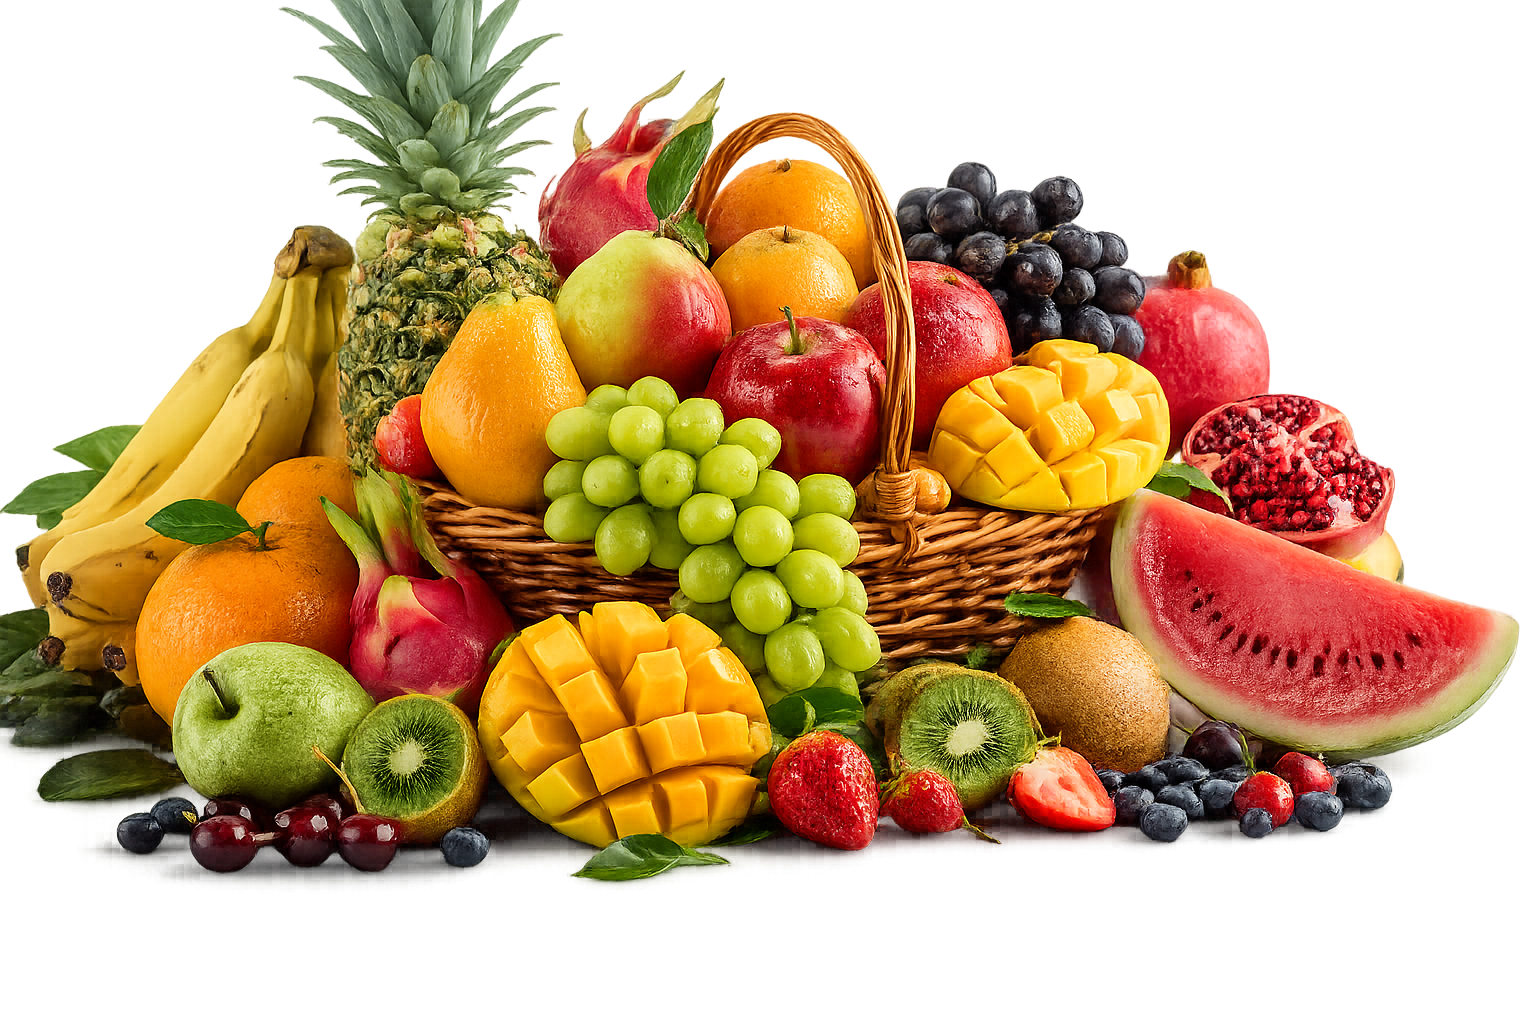
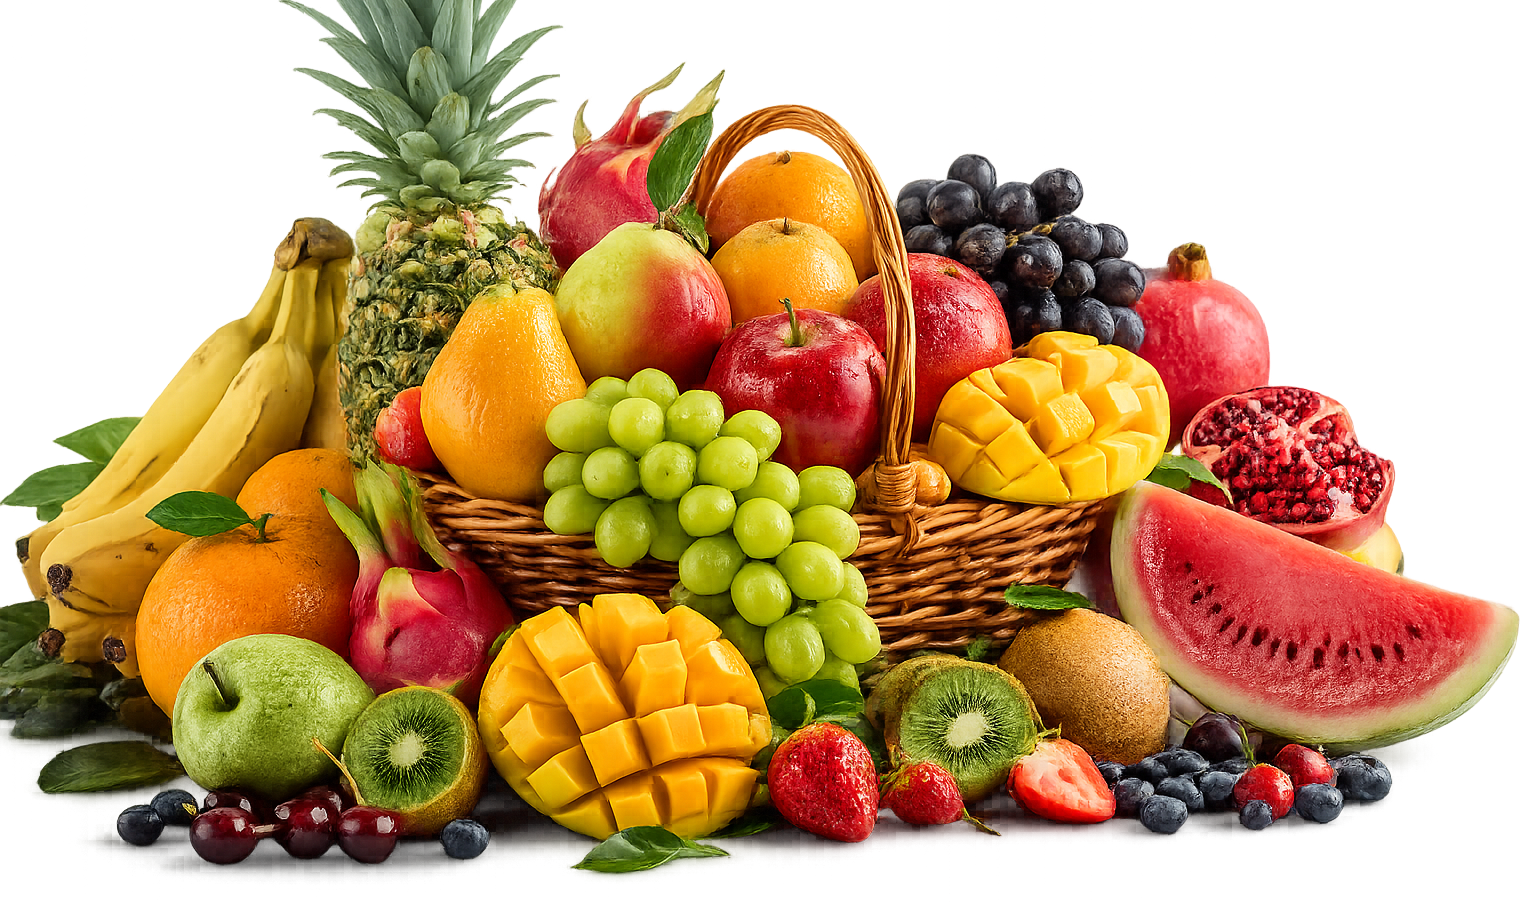
Update Homepage Image

diff --git a/src/components/home/HeroImage.tsx b/src/components/home/HeroImage.tsx
@@ -1,60 +1,63 @@
 import Image from "next/image";
-import { Star, Truck, Percent } from "lucide-react";
+import { Percent, Star, Truck } from "lucide-react";
 
 export default function HeroImage() {
     return (
         <div className="relative w-full">
 
-            {/* Background Glow */}
-            <div className="absolute inset-0 rounded-[40px] bg-gradient-to-br from-green-100 via-white to-orange-100 blur-3xl" />
+            {/* Glow */}
+            <div className="absolute inset-0 rounded-[40px] bg-gradient-to-br from-green-100/70 via-white to-orange-100/70 blur-3xl" />
 
             {/* Hero Card */}
-            <div className="relative h-[420px] sm:h-[520px] md:h-[620px] lg:h-[720px] xl:h-[760px] overflow-hidden rounded-[40px] bg-gradient-to-br from-green-50 via-white to-orange-50 shadow-2xl">
+            <div className="relative overflow-hidden rounded-[40px] bg-gradient-to-br from-green-50 via-white to-orange-50 shadow-2xl h-[430px] sm:h-[540px] md:h-[650px] lg:h-[740px] xl:h-[790px]">
 
-                {/* Hero Image */}
-                <div className="absolute inset-0 flex items-center justify-center">
+                {/* Image */}
+                <div className="absolute inset-0 flex items-end justify-center">
 
                     <Image
                         src="/products/fruits/hero-fruits.png"
                         alt="Fresh Fruits"
-                        fill
+                        width={1500}
+                        height={1100}
                         priority
                         className="
+                            pointer-events-none
+                            select-none
+                            h-auto
+                            w-[96%]
+                            sm:w-[90%]
+                            md:w-[88%]
+                            lg:w-[92%]
+                            xl:w-[96%]
                             object-contain
-                            object-bottom
-                            scale-[0.9]
-                            sm:scale-100
-                            md:scale-105
-                            lg:scale-110
-                            xl:scale-[1.15]
+                            drop-shadow-[0_45px_35px_rgba(0,0,0,.18)]
                             transition-all
                             duration-500
-                            hover:scale-[1.18]
-                            drop-shadow-[0_35px_35px_rgba(0,0,0,0.18)]
+                            hover:scale-[1.03]
                         "
                     />
 
                 </div>
 
-                {/* Delivery Card */}
+                {/* Delivery */}
 
-                <div className="absolute top-4 left-4 sm:top-8 sm:left-8 z-30 rounded-2xl bg-white/95 backdrop-blur-md shadow-xl px-3 py-3 sm:px-6 sm:py-5">
+                <div className="absolute left-[4%] top-[6%] z-30 rounded-3xl bg-white/95 backdrop-blur-md shadow-xl px-3 py-3 sm:px-5 sm:py-4 lg:px-6 lg:py-5">
 
                     <div className="flex items-center gap-3">
 
-                        <div className="rounded-full bg-green-100 p-3">
+                        <div className="rounded-full bg-green-100 p-3 lg:p-4">
 
-                            <Truck className="h-5 w-5 text-green-700" />
+                            <Truck className="h-5 w-5 lg:h-6 lg:w-6 text-green-700" />
 
                         </div>
 
                         <div>
 
-                            <p className="text-[11px] sm:text-sm text-gray-500">
+                            <p className="text-[10px] sm:text-xs lg:text-sm text-gray-500">
                                 Free Delivery
                             </p>
 
-                            <h3 className="text-sm sm:text-lg font-bold text-green-900">
+                            <h3 className="text-xs sm:text-base lg:text-xl font-bold text-green-900">
                                 Selected Areas
                             </h3>
 
@@ -64,41 +67,43 @@ export default function HeroImage() {
 
                 </div>
 
-                {/* Offer Card */}
+                {/* Offer */}
 
-                <div className="absolute top-4 right-4 sm:top-8 sm:right-8 z-30 rounded-2xl bg-white/95 backdrop-blur-md shadow-xl px-4 py-4 sm:px-7 sm:py-6">
+                <div className="absolute right-[4%] top-[5%] z-30 rounded-3xl bg-white/95 backdrop-blur-md shadow-xl px-4 py-4 sm:px-6 sm:py-5 lg:px-8 lg:py-6">
 
                     <div className="mb-2 flex items-center gap-2">
 
                         <Percent className="h-4 w-4 text-orange-500" />
 
-                        <span className="text-[11px] sm:text-xs uppercase tracking-wider font-bold text-orange-500">
+                        <span className="text-[10px] sm:text-xs font-bold uppercase tracking-wider text-orange-500">
                             Limited Offer
                         </span>
 
                     </div>
 
-                    <h2 className="text-3xl sm:text-5xl lg:text-6xl font-black text-orange-500">
+                    <h2 className="text-3xl sm:text-5xl lg:text-6xl font-black text-orange-500 leading-none">
                         35%
                     </h2>
 
-                    <p className="text-base sm:text-lg font-bold text-gray-700">
+                    <p className="mt-2 text-sm sm:text-base lg:text-xl font-bold text-gray-700">
                         OFF
                     </p>
 
                 </div>
 
-                {/* Premium Button */}
+                {/* Premium */}
 
-                <div className="absolute bottom-4 left-4 sm:bottom-8 sm:left-8 z-30 rounded-full bg-green-900 px-5 py-3 sm:px-10 sm:py-4 text-sm sm:text-lg font-semibold text-white shadow-xl">
+                <div className="absolute left-[5%] bottom-[8%] z-30 rounded-full bg-green-900 px-5 py-3 sm:px-7 sm:py-4 lg:px-10 lg:py-5 shadow-xl">
 
-                    Premium Fresh Fruits
+                    <p className="text-xs sm:text-base lg:text-xl font-semibold text-white whitespace-nowrap">
+                        Premium Fresh Fruits
+                    </p>
 
                 </div>
 
-                {/* Rating Card */}
+                {/* Rating */}
 
-                <div className="absolute bottom-4 right-4 sm:bottom-8 sm:right-8 z-30 rounded-2xl bg-white/95 backdrop-blur-md shadow-xl px-4 py-3 sm:px-6 sm:py-5">
+                <div className="absolute right-[5%] bottom-[8%] z-30 rounded-3xl bg-white/95 backdrop-blur-md shadow-xl px-4 py-4 sm:px-6 sm:py-5">
 
                     <div className="flex items-center gap-2">
 
@@ -107,13 +112,13 @@ export default function HeroImage() {
                             fill="#FACC15"
                         />
 
-                        <span className="text-xl sm:text-3xl font-bold">
+                        <span className="text-lg sm:text-2xl lg:text-3xl font-bold">
                             4.9
                         </span>
 
                     </div>
 
-                    <p className="mt-1 text-xs sm:text-base text-gray-500">
+                    <p className="mt-2 text-[10px] sm:text-sm lg:text-base text-gray-500">
                         Customer Rating
                     </p>
 
